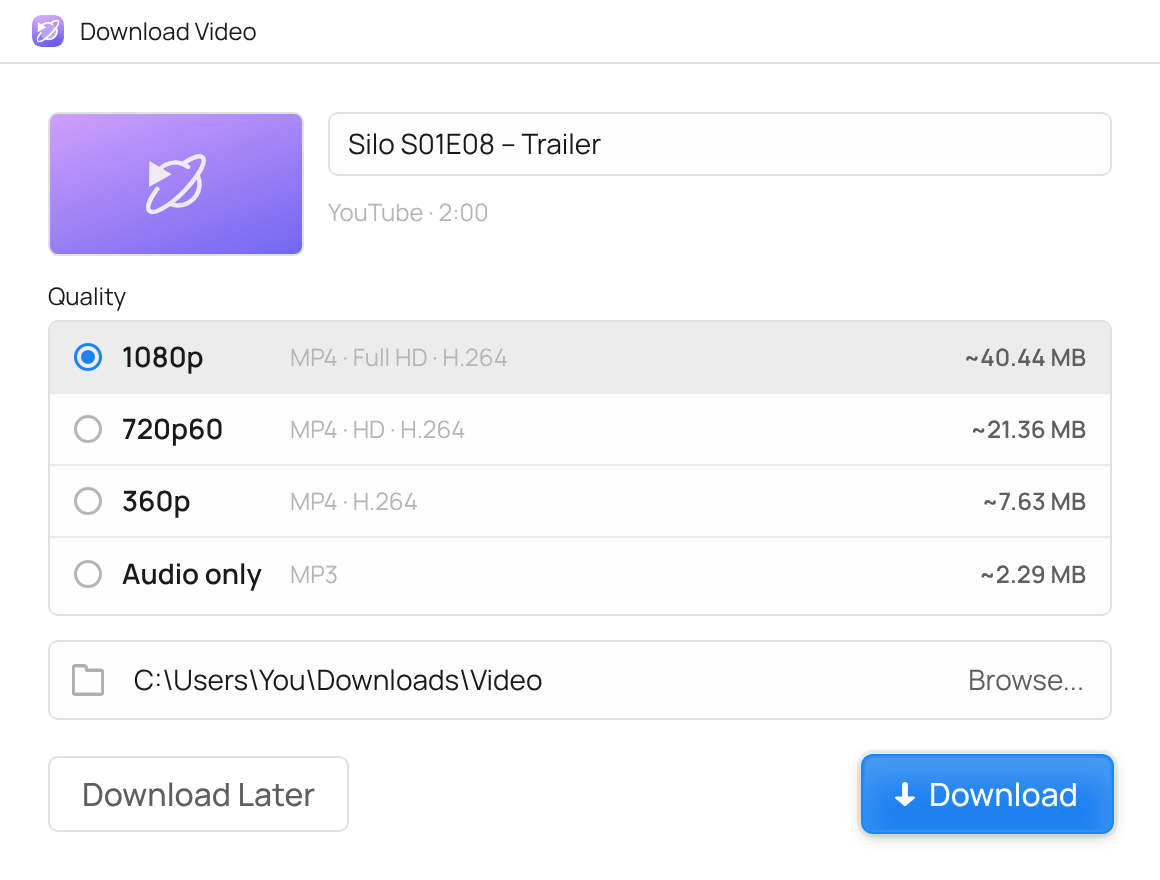
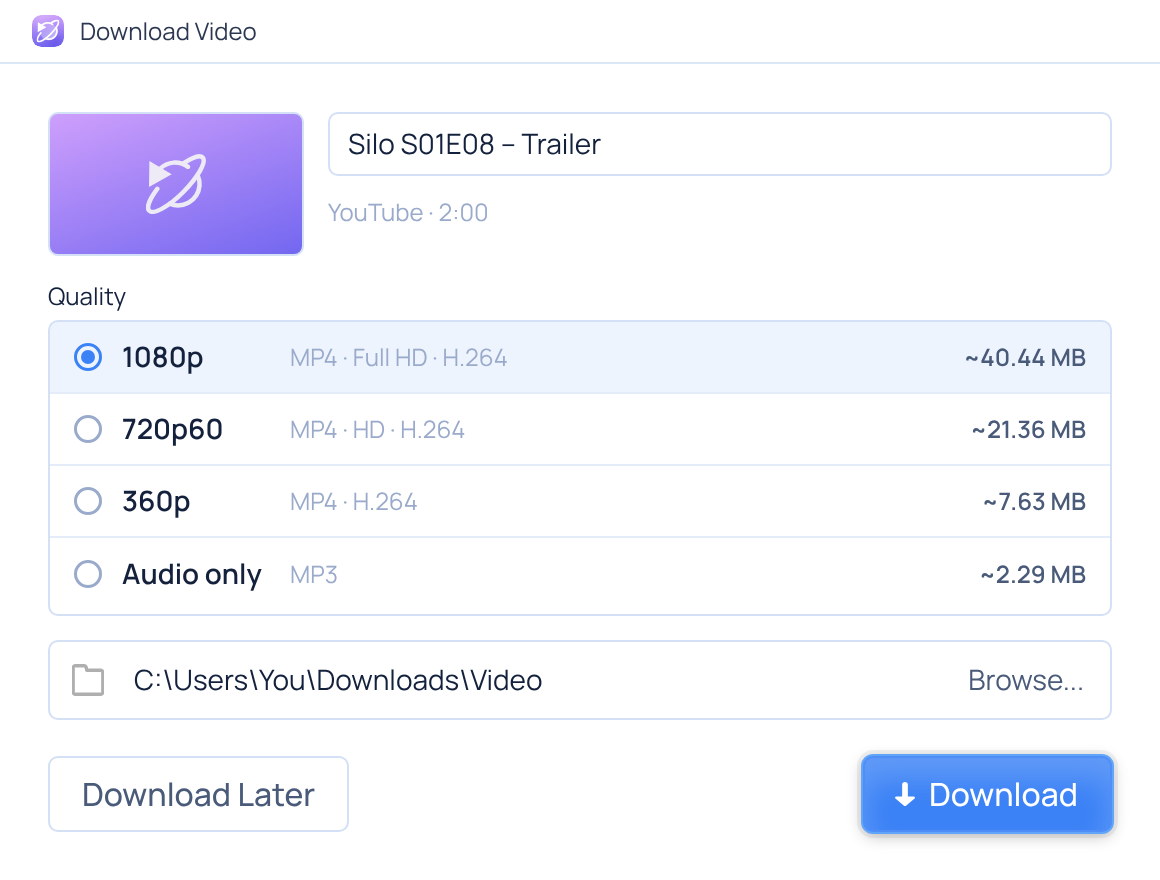
README screenshots: use the Day theme
Claude-Session: https://claude.ai/code/session_017mAQxFjq4R6oupFoLhwFHn

diff --git a/scripts/readme-shots.js b/scripts/readme-shots.js
@@ -73,7 +73,7 @@ const shot = async (page, name) => {
 (async () => {
   const slow = await startServer(makeData(64 * 1024 * 1024, 5), { bytesPerSec: 260 * 1024 });
   const fast = await startServer(makeData(3 * 1024 * 1024, 9));
-  let { app, main } = await launch('light');
+  let { app, main } = await launch('day');
   const add = (o) => main.evaluate((x) => window.api.invoke('downloads:add', x), o);
   const act = (id, action) => main.evaluate((x) => window.api.invoke('downloads:action', x), { id, action });
 
@@ -99,7 +99,7 @@ const shot = async (page, name) => {
     await sleep(500);
     await shot(main, `theme-${t}`);
   }
-  await main.evaluate(() => window.api.invoke('settings:set', { theme: 'light' }));
+  await main.evaluate(() => window.api.invoke('settings:set', { theme: 'day' }));
   await sleep(400);
 
   // queue + scheduler
@@ -167,7 +167,7 @@ const shot = async (page, name) => {
   await app.close();
 
   // browser: video button + extension popup
-  ({ app, main } = await launch('light'));
+  ({ app, main } = await launch('day'));
   const site = http.createServer((req, res) => {
     if (req.url === '/') {
       res.writeHead(200, { 'Content-Type': 'text/html' });
